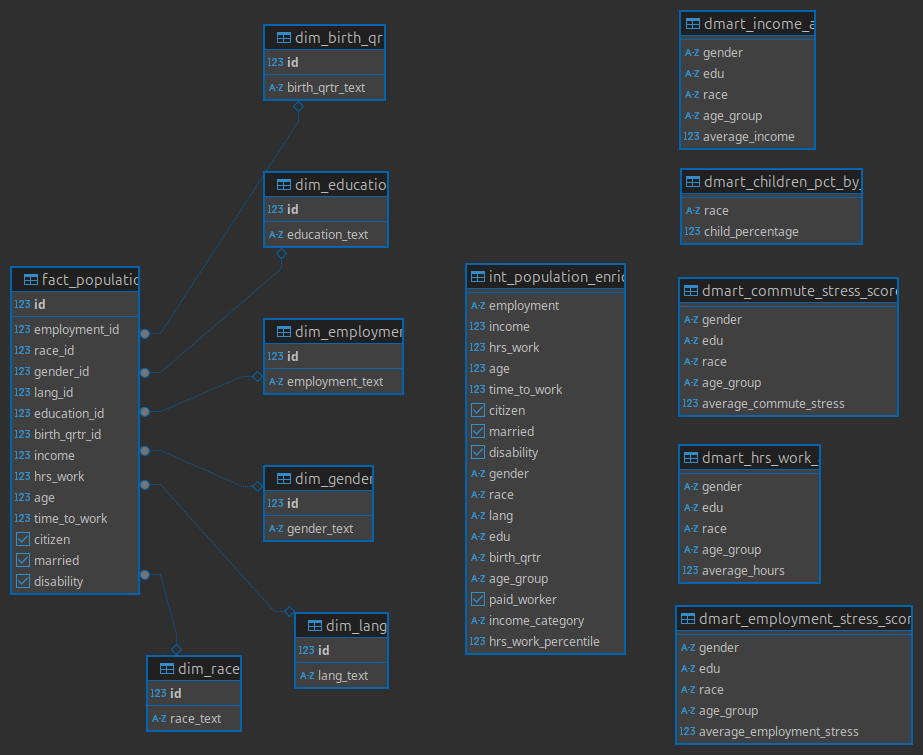
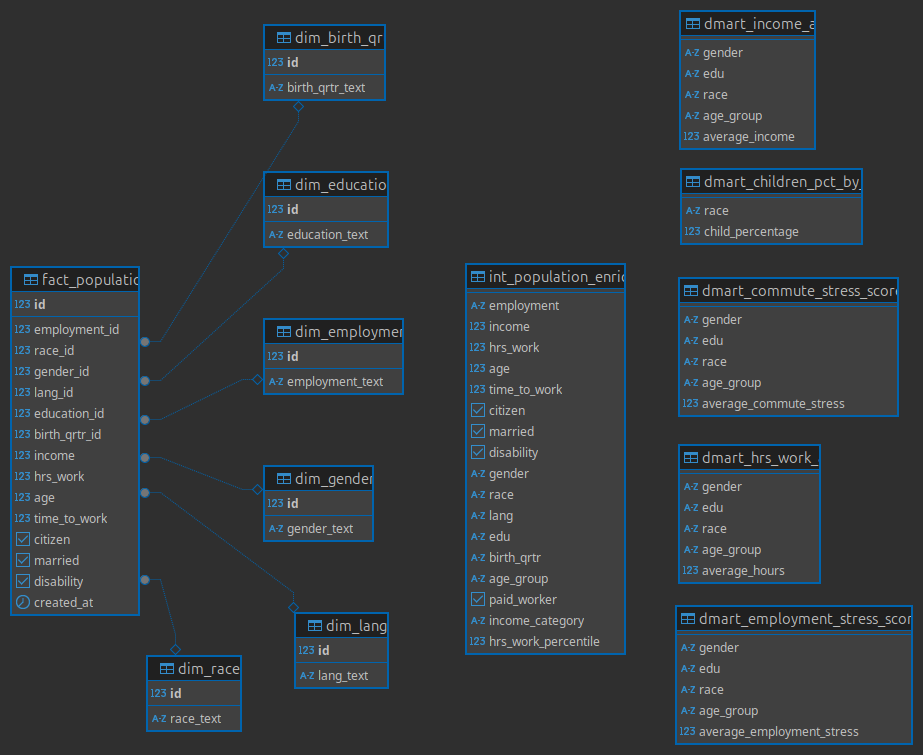
add indexes on fact table FK's and created_at timestamp (default now()) also update db schema png

diff --git a/src/db_init.py b/src/db_init.py
@@ -34,7 +34,6 @@ def create_database_and_tables():
     sys_cur.execute("DROP DATABASE IF EXISTS acs_dataset;")
     sys_cur.execute("CREATE DATABASE acs_dataset;")
 
-
     sys_cur.close()
     sys_conn.close()
     logger.info("Database acs_dataset created.")
@@ -91,11 +90,33 @@ def create_database_and_tables():
             time_to_work DOUBLE PRECISION,
             citizen BOOLEAN,
             married BOOLEAN,
-            disability BOOLEAN
+            disability BOOLEAN,
+            created_at TIMESTAMP DEFAULT NOW()
         );
     """
     )
     logger.info("Created table fact_population.")
+
+    # Create indexes on fact table FK's
+    cur.execute(
+        "CREATE INDEX fact_employment_id_idx ON fact_population (employment_id);"
+    )
+    cur.execute(
+        "CREATE INDEX fact_race_id_idx ON fact_population (race_id);"
+    )
+    cur.execute(
+        "CREATE INDEX fact_gender_id_idx ON fact_population (gender_id);"
+    )
+    cur.execute(
+        "CREATE INDEX fact_lang_id_idx ON fact_population (lang_id);"
+    )
+    cur.execute(
+        "CREATE INDEX fact_education_id_idx ON fact_population (education_id);"
+    )
+    cur.execute(
+        "CREATE INDEX fact_birth_qrtr_id_idx ON fact_population (birth_qrtr_id);"
+    )
+    logger.info("Creating FK indexes")
 
     # Done
     conn.commit()
